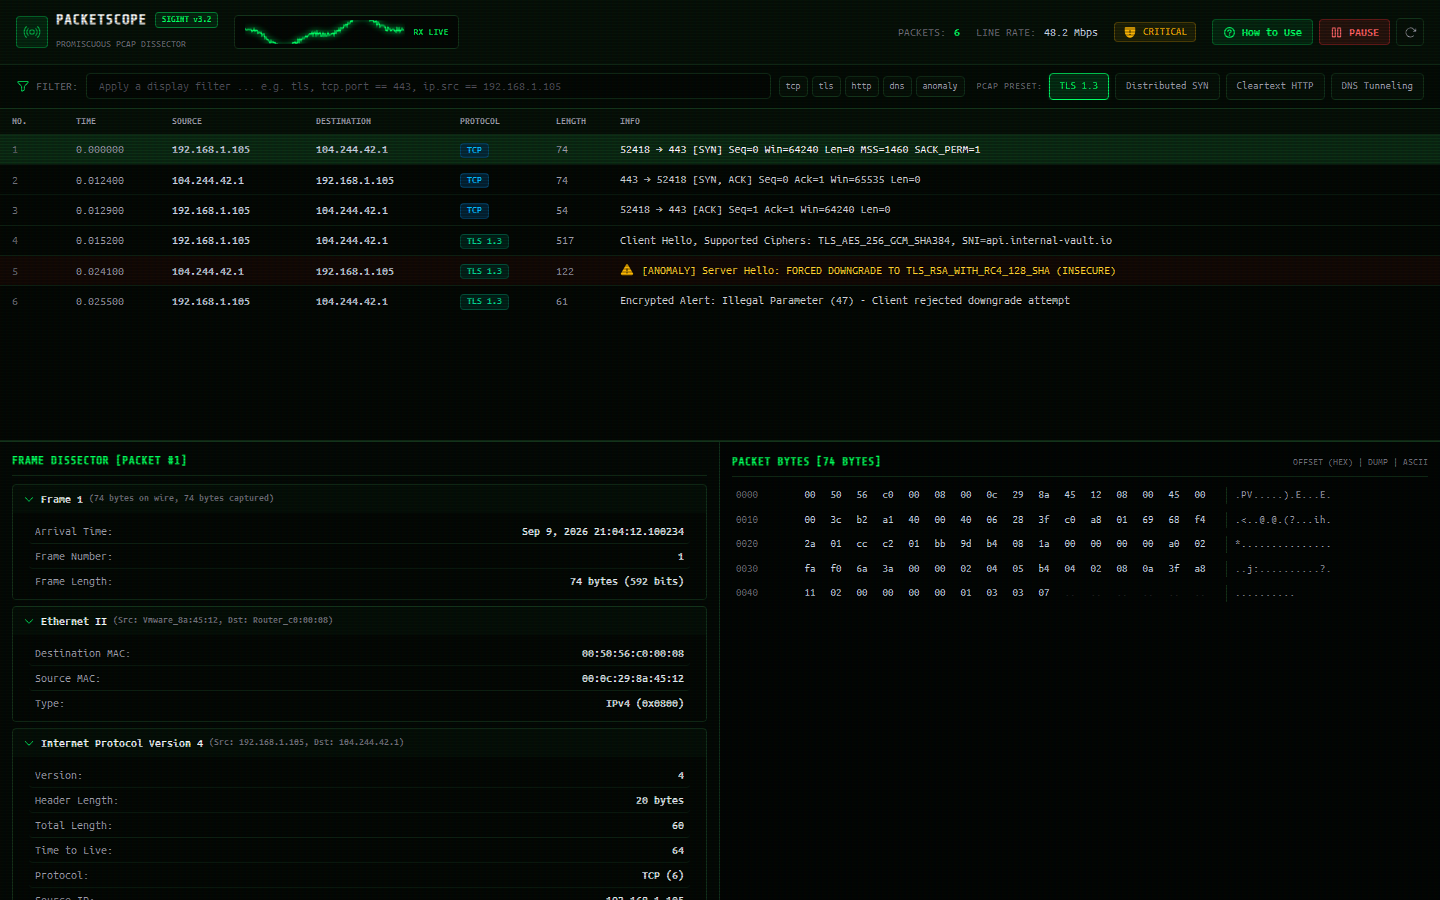
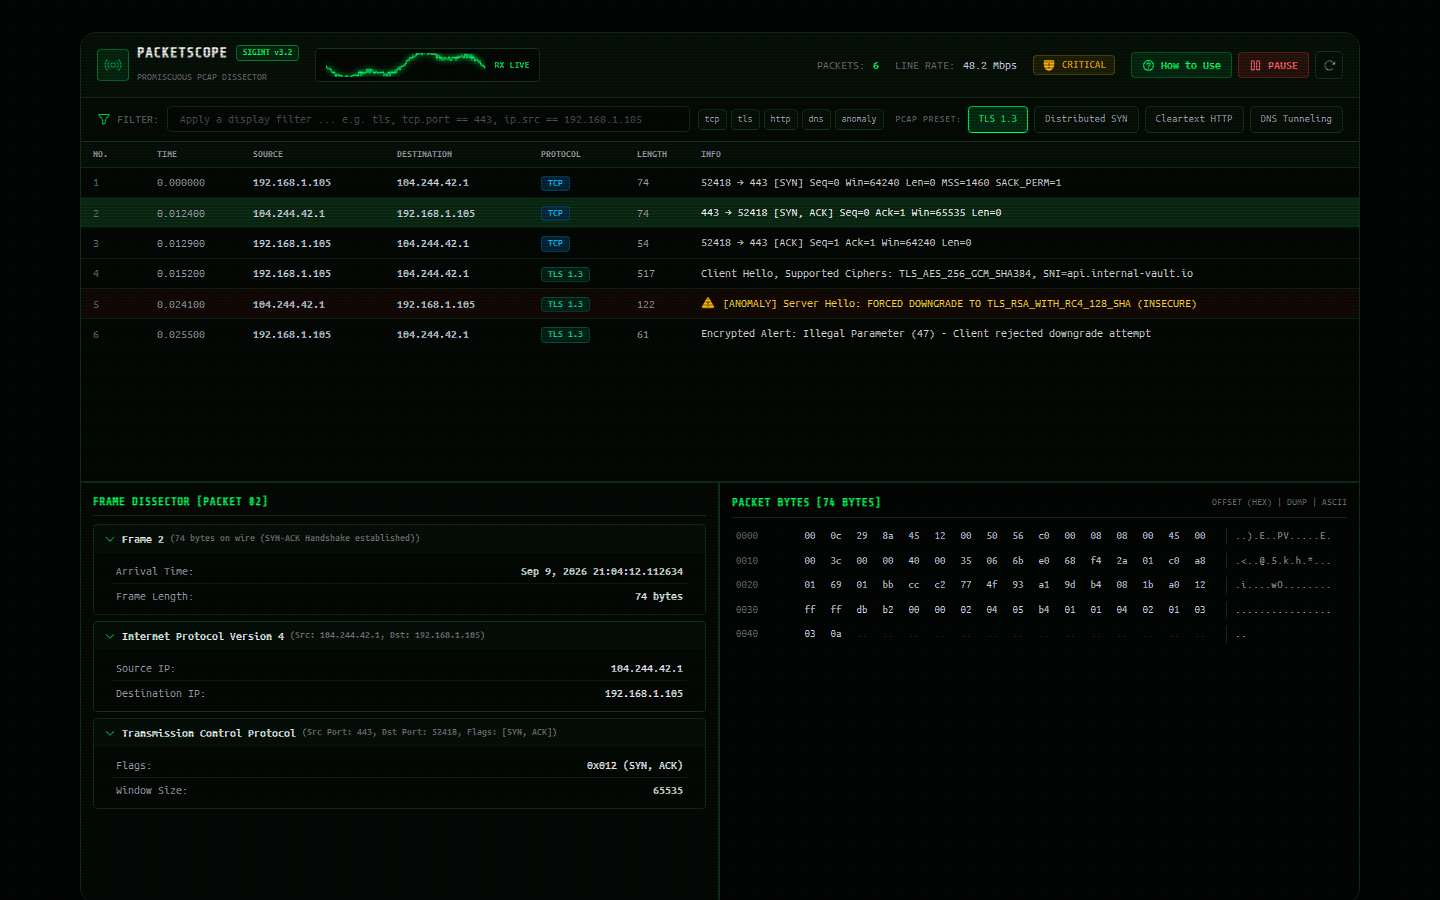
feat: redesign to containerized shell and mobile responsive layout

diff --git a/src/App.tsx b/src/App.tsx
@@ -46,57 +46,65 @@ export default function App() {
   }, [activeScenario, filterText]);
 
   return (
-    <div className="relative flex h-screen w-screen flex-col overflow-hidden bg-[#030804] text-[#86efac] font-body crt-scanlines">
-      {/* Tier 1: Oscilloscope Header */}
-      <OscilloscopeHeader
-        isCapturing={isCapturing}
-        onToggleCapture={() => setIsCapturing(!isCapturing)}
-        packetCount={filteredPackets.length}
-        threatLevel={activeScenario.threatLevel}
-        bitrate="48.2 Mbps"
-        onOpenGuide={() => setIsGuideOpen(true)}
-      />
-
-      {/* Tier 1.5: Wireshark Filter & Scenario Switcher Bar */}
-      <FilterBar
-        filterText={filterText}
-        setFilterText={setFilterText}
-        scenarios={PCAP_PRESETS}
-        activeScenarioId={activeScenario.id}
-        onSelectScenario={handleSelectScenario}
-      />
-
-      {/* Tier 2: Upper Packet Stream Table (42% height) */}
-      <div className="h-[42%] w-full overflow-hidden">
-        <PacketStreamTable
-          packets={filteredPackets}
-          selectedPacket={selectedPacket}
-          onSelectPacket={(pkt) => {
-            setSelectedPacket(pkt);
-            setActiveByteRange(null);
-          }}
+    <div className="min-h-screen w-full bg-[#020503] text-[#86efac] font-body py-3 sm:py-8 px-3 sm:px-6 flex flex-col items-center justify-start crt-scanlines selection:bg-[#00ff66]/30 selection:text-white">
+      {/* Containerized Shell */}
+      <div className="w-full max-w-7xl mx-auto rounded-2xl border border-[#13331a] bg-[#061108] shadow-2xl overflow-hidden flex flex-col">
+        {/* Tier 1: Oscilloscope Header */}
+        <OscilloscopeHeader
+          isCapturing={isCapturing}
+          onToggleCapture={() => setIsCapturing(!isCapturing)}
+          packetCount={filteredPackets.length}
+          threatLevel={activeScenario.threatLevel}
+          bitrate="48.2 Mbps"
+          onOpenGuide={() => setIsGuideOpen(true)}
         />
-      </div>
 
-      {/* Tier 3: Lower Inspection Split (58% height) */}
-      <div className="flex h-[58%] w-full flex-col md:flex-row overflow-hidden border-t border-[#13331a]">
-        {/* Left Sub-pane: Protocol Dissector Tree (50%) */}
-        <div className="h-1/2 md:h-full md:w-1/2 overflow-hidden">
-          <ProtocolTreeDissector
-            packet={selectedPacket}
-            activeByteRange={activeByteRange}
-            setActiveByteRange={setActiveByteRange}
+        {/* Tier 1.5: Wireshark Filter & Scenario Switcher Bar */}
+        <FilterBar
+          filterText={filterText}
+          setFilterText={setFilterText}
+          scenarios={PCAP_PRESETS}
+          activeScenarioId={activeScenario.id}
+          onSelectScenario={handleSelectScenario}
+        />
+
+        {/* Tier 2: Upper Packet Stream Table */}
+        <div className="h-[260px] sm:h-[300px] lg:h-[340px] w-full overflow-hidden">
+          <PacketStreamTable
+            packets={filteredPackets}
+            selectedPacket={selectedPacket}
+            onSelectPacket={(pkt) => {
+              setSelectedPacket(pkt);
+              setActiveByteRange(null);
+            }}
           />
         </div>
 
-        {/* Right Sub-pane: Synchronized Hex / ASCII Dump (50%) */}
-        <div className="h-1/2 md:h-full md:w-1/2 overflow-hidden">
-          <HexDumpViewer
-            packet={selectedPacket}
-            activeByteRange={activeByteRange}
-          />
+        {/* Tier 3: Lower Inspection Split (Responsive Stacking on Mobile) */}
+        <div className="flex flex-col lg:flex-row w-full divide-y lg:divide-y-0 lg:divide-x divide-[#13331a] border-t border-[#13331a]">
+          {/* Left Sub-pane: Protocol Dissector Tree */}
+          <div className="w-full lg:w-1/2 h-[320px] sm:h-[360px] lg:h-[420px] overflow-hidden">
+            <ProtocolTreeDissector
+              packet={selectedPacket}
+              activeByteRange={activeByteRange}
+              setActiveByteRange={setActiveByteRange}
+            />
+          </div>
+
+          {/* Right Sub-pane: Synchronized Hex / ASCII Dump */}
+          <div className="w-full lg:w-1/2 h-[320px] sm:h-[360px] lg:h-[420px] overflow-hidden">
+            <HexDumpViewer
+              packet={selectedPacket}
+              activeByteRange={activeByteRange}
+            />
+          </div>
         </div>
       </div>
+
+      {/* Footer Attribution */}
+      <footer className="mt-6 text-center font-mono text-[11px] text-zinc-600">
+        PacketScope • Wire-Level PCAP Dissector • Built by <a href="https://nyzxis.vercel.app/" target="_blank" rel="noreferrer" className="text-[#00ff66]/80 hover:text-[#00ff66]">nyzxis</a>
+      </footer>
 
       {/* Instructional Guide Modal */}
       <PacketGuideModal

diff --git a/src/components/HexDumpViewer.tsx b/src/components/HexDumpViewer.tsx
@@ -45,15 +45,16 @@ export function HexDumpViewer({ packet, activeByteRange }: HexDumpViewerProps) {
   }
 
   return (
-    <div className="h-full w-full overflow-y-auto bg-[#020503] p-3 font-mono text-[11px] select-text">
-      <div className="mb-2 flex items-center justify-between border-b border-[#13331a] pb-1.5">
-        <span className="font-display text-[11px] font-bold uppercase tracking-wider text-[#00ff66]">
-          Packet Bytes [{packet.length} bytes]
-        </span>
-        <span className="text-[10px] text-zinc-500">OFFSET (HEX) | DUMP | ASCII</span>
-      </div>
+    <div className="h-full w-full overflow-x-auto overflow-y-auto bg-[#020503] p-3 font-mono text-[11px] select-text">
+      <div className="min-w-[540px]">
+        <div className="mb-2 flex items-center justify-between border-b border-[#13331a] pb-1.5">
+          <span className="font-display text-[11px] font-bold uppercase tracking-wider text-[#00ff66]">
+            Packet Bytes [{packet.length} bytes]
+          </span>
+          <span className="text-[10px] text-zinc-500">OFFSET (HEX) | DUMP | ASCII</span>
+        </div>
 
-      <div className="space-y-1">
+        <div className="space-y-1">
         {byteRows.map((row) => (
           <div key={row.offset} className="flex items-center gap-4 py-0.5 hover:bg-[#06140a] rounded px-1">
             {/* Offset */}
@@ -95,6 +96,7 @@ export function HexDumpViewer({ packet, activeByteRange }: HexDumpViewerProps) {
             </div>
           </div>
         ))}
+      </div>
       </div>
     </div>
   );

diff --git a/src/components/PacketStreamTable.tsx b/src/components/PacketStreamTable.tsx
@@ -28,8 +28,8 @@ export function PacketStreamTable({
   };
 
   return (
-    <div className="h-full w-full overflow-y-auto bg-[#030804] border-b border-[#13331a]">
-      <table className="w-full text-left font-mono text-xs border-collapse">
+    <div className="h-full w-full overflow-x-auto overflow-y-auto bg-[#030804] border-b border-[#13331a]">
+      <table className="min-w-[640px] w-full text-left font-mono text-xs border-collapse">
         <thead className="sticky top-0 z-10 bg-[#061108] border-b border-[#13331a] text-[10px] text-zinc-400 uppercase">
           <tr>
             <th className="py-1.5 px-3 w-16">No.</th>
